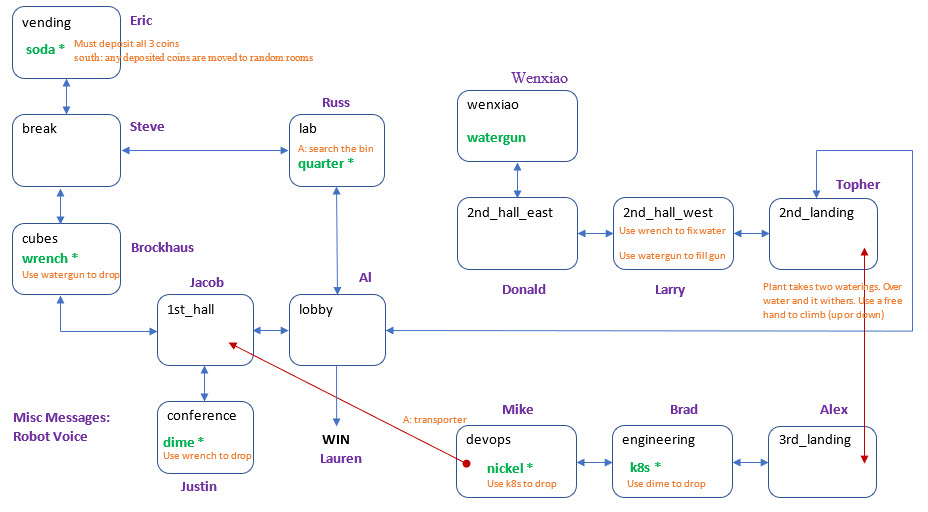
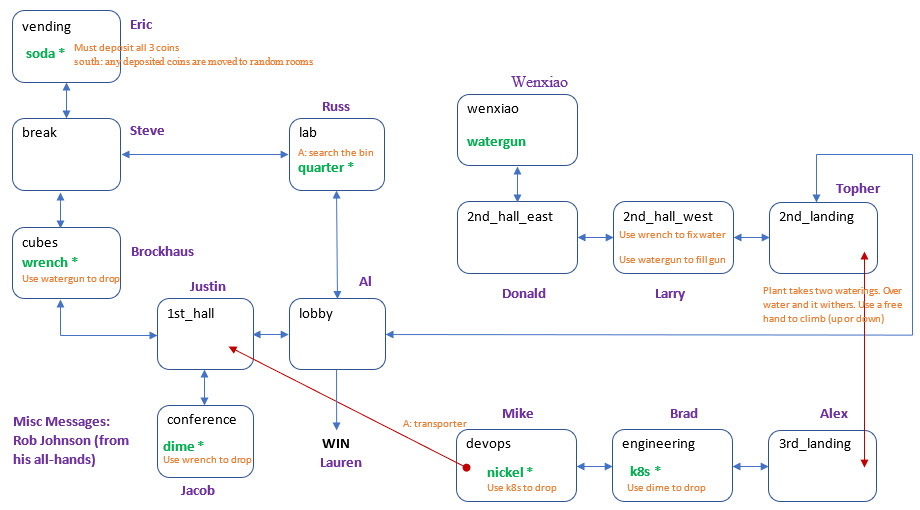
tweaks

diff --git a/adventure/README.md b/adventure/README.md
@@ -1,10 +1,4 @@
-# Soda Machine
-
-The price of the soda is 50 cents. A dime already is already in it. It takes
-three coins (quarter, dime, nickel) to get the soda. When you leave
-the room, any coins you put in the machine pop out and roll to nearby 
-rooms. The trick is to drop a coin in this room then come back
-with one coin in each hand. Use left, user right, get right, use right.
+# Simple inputs
 
 ![](controls.jpg)
 
@@ -14,29 +8,69 @@ with one coin in each hand. Use left, user right, get right, use right.
 
 # Prompts
 
-## Misc (Robot Voice)
+## Misc Prompts
+
+These are snagged from all-hands meetings with Rob Johnson.
+
+> **miscOK:** OK.
+
+> **miscNOP:** Nothing happens.
+
+> **miscHandFull:** That hand already has something in it.
+
+> **miscHandEmpty:** You aren't holding anything in that hand.
+
+> **miscBounces:** {the name} bounces away into another room.
+
+> **miscNoObj:** There is nothing to pick up.
 
 ## lobby (Al)
 
-## 1st\_hall (Jacob)
+This is where you start. The exit is to the north. But Al's blood sugar is low and he can't press the button to let you out.
+You must bring him the `soda` and use it. Then going north is a win.
 
-## conference (Justin)
+## 1st\_hall (Justin)
+
+## conference (Jacob)
+
+The dime is in here, but it is stuck under the raisable desk. You must use the `wrench` to get it to raise. Then the `dime`
+rolls out.
 
 ## cubes (Brockhaus)
+
+Brockhaus sees your gun and challenges you to a play fight. He has the `wrench`. You must use the gun and he'll drop the `wrench`.
+You don't need water in the gun. The threat is enough to get the `wrench`.
 
 ## break (Steve)
 
 ## vending (Eric)
 
+You need the `soda` in oder for Al to let you out (to win). The price of the soda is 50 cents. A dime already is already in it. 
+Thus it takes all three coins (`quarter`, `dime`, `nickel`) to get the `soda`. When you leave the room, any coins you put in 
+the machine pop out and roll to nearby rooms. The trick is to drop a coin in this room first. Then come back with one coin in each 
+hand. Use left, user right, get right, use right. When the `soda` is dropped, all the coins are gone from the game.
+
 ## lab (Russ)
+
+Russ is dumpster diving here. You must `look` here to find the `quarter`
 
 ## 2nd\_landing (Topher)
 
+There is a plant here that you can climb back and forth to the 3rd floor landing. You must squirt the plant twice with `watergun`. After
+each squirt you must refill the `watergun` from the fixed water fountain. To climb the plant (either direction) you `use` a free hand.
+The plant calls for water. It has three states: initial, middle, final. If can only climb the final state. If you water the final state
+the plant withers back to initial.
+
 ## 2nd\_hall\_west (Larry)
+
+The water fountain is here, but it is broken. If only you had a tool of some kind. Use the `wrench` to repair the fountain. Then you
+can use the `watergun` here to refill it as often as you like.
 
 ## 2nd\_hall\_east (Donald)
 
 ## wenxiao (Wenxiao)
+
+The `watergun` starts here. It starts out empty.
 
 ## 3rd\_landing (Alex)
 
@@ -60,5 +94,11 @@ welcome to take it with you. Now if you'll excuse me, I'm off to play some foosb
 
 ## devops (Mike)
 
+Mike Hoffman in devops is stuck in a beanbag chair and can't get up. You give him the `kubelet` and he'll give you the `nickel`. Then he vanishes.
+The devops team can transport you (one way) to the `1st\_hall`. Use the `kubelet` to get sucked into the cloud and back out on the 1st floor. In
+the process you drop the `kubelet` in the devops room (where you can use it again).
+
 ## WIN (Lauren)
+
+Two messages here:
 
